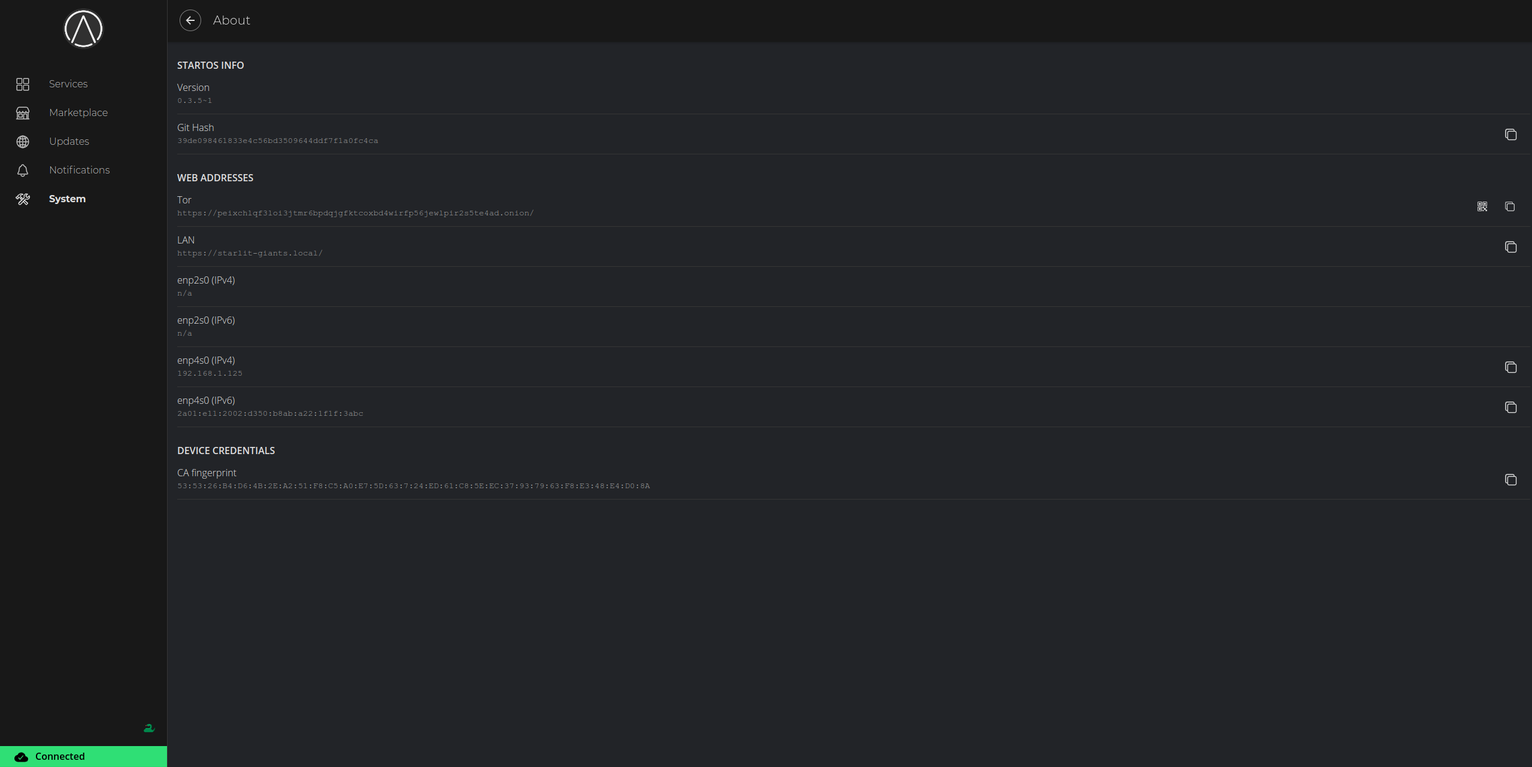
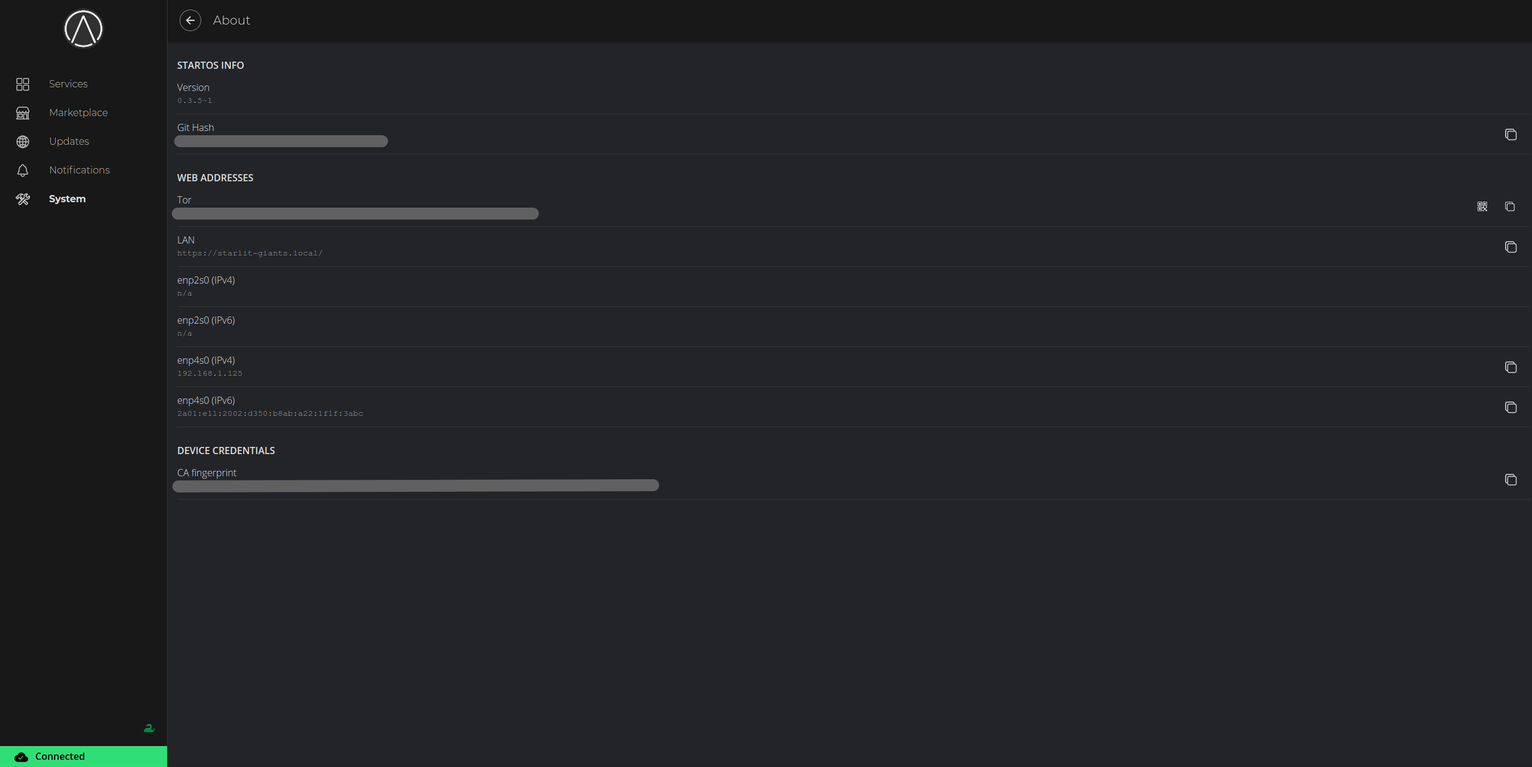
[update] privacy on images

Changed region(s): [[0.0926, 0.2496, 0.3705, 0.312], [0.0926, 0.624, 0.4322, 0.6552], [0.1235, 0.156, 0.247, 0.2184]]

diff --git a/public/1_conoscere/2_privacy_e_sicurezza/5_creare_il_proprio_nodo/index.html b/public/1_conoscere/2_privacy_e_sicurezza/5_creare_il_proprio_nodo/index.html
@@ -164,20 +164,20 @@ Perchè possedere un nodo privato Operare con Bitcoin tramite un nodo privato ti
 <h1 id="hardware-necessario">Hardware necessario</h1>
 <p>Acquistare un mini PC per creare il proprio nodo Bitcoin è una scelta vantaggiosa poichè sono compatti, silenziosi e richiedono poca energia, il che li rende ideali per un funzionamento continuo senza incidere troppo sui consumi elettrici.</p>
 <p>Sono qui proposte due soluzioni, che ho personalmente provato e che mi sento di consigliare:</p>
-<div class="tab-panel" data-tab-group="0b9d33902193c3ed617074cbd9b26641">
+<div class="tab-panel" data-tab-group="50bbae75beff8712fb2340cdd391b081">
   <div class="tab-nav">
     <div class="tab-nav-title">Mini PC:</div>
     <button
       data-tab-item="acemagic-s1-n95"
       class="tab-nav-button tab-panel-style cstyle initial active" tabindex="-1"
-      onclick="switchTab('0b9d33902193c3ed617074cbd9b26641','acemagic-s1-n95')"
+      onclick="switchTab('50bbae75beff8712fb2340cdd391b081','acemagic-s1-n95')"
     >
       <span class="tab-nav-text">Acemagic S1 N95</span>
     </button>
     <button
       data-tab-item="hp-elitedesk-800-g3"
       class="tab-nav-button tab-panel-style cstyle initial"
-      onclick="switchTab('0b9d33902193c3ed617074cbd9b26641','hp-elitedesk-800-g3')"
+      onclick="switchTab('50bbae75beff8712fb2340cdd391b081','hp-elitedesk-800-g3')"
     >
       <span class="tab-nav-text">HP EliteDesk 800 G3</span>
     </button>
@@ -189,8 +189,8 @@ Perchè possedere un nodo privato Operare con Bitcoin tramite un nodo privato ti
       <div class="tab-content-text">
 <h3 id="acemagic-s1-n95">Acemagic S1 N95</h3>
 <p>Facilmente reperibile su Amazon o sul <a href="https://acemagic.eu/products/s1-minipc" rel="external" target="_self">sito del produttore</a>. Si consiglia l&rsquo;acquisto separato di un SSD NVMe PCIe3.0 da almeno 2TB, che sarà poi da installare all&rsquo;interno del mini PC.</p>
-<p><a href="#R-image-1d2211774ddca72cdfbe19c2a5d412af" class="lightbox-link"><img alt="targets" class="border lazy lightbox noshadow figure-image" loading="lazy" src="/1_conoscere/2_privacy_e_sicurezza/5_creare_il_proprio_nodo/img/Acemagic_S1_N95_miniPC.png" style=" height: auto; width: auto;"></a>
-<a href="javascript:history.back();" class="lightbox-back" id="R-image-1d2211774ddca72cdfbe19c2a5d412af"><img alt="targets" class="border lazy lightbox noshadow lightbox-image" loading="lazy" src="/1_conoscere/2_privacy_e_sicurezza/5_creare_il_proprio_nodo/img/Acemagic_S1_N95_miniPC.png"></a></p>
+<p><a href="#R-image-83bddfbfc87b551fd4f66c55e26cf8c5" class="lightbox-link"><img alt="targets" class="border lazy lightbox noshadow figure-image" loading="lazy" src="/1_conoscere/2_privacy_e_sicurezza/5_creare_il_proprio_nodo/img/Acemagic_S1_N95_miniPC.png" style=" height: auto; width: auto;"></a>
+<a href="javascript:history.back();" class="lightbox-back" id="R-image-83bddfbfc87b551fd4f66c55e26cf8c5"><img alt="targets" class="border lazy lightbox noshadow lightbox-image" loading="lazy" src="/1_conoscere/2_privacy_e_sicurezza/5_creare_il_proprio_nodo/img/Acemagic_S1_N95_miniPC.png"></a></p>
 <table>
   <thead>
       <tr>
@@ -221,8 +221,8 @@ Perchè possedere un nodo privato Operare con Bitcoin tramite un nodo privato ti
       <div class="tab-content-text">
 <h3 id="hp-elitedesk-800-g3">HP EliteDesk 800 G3</h3>
 <p>Dispositivi ricondizionati sono facilmente reperibili online (Amazon ed Ebay). Si consiglia l&rsquo;acquisto separato di un SSD NVMe PCIe3.0 da almeno 2TB, che sarà poi da installare all&rsquo;interno del mini PC.</p>
-<p><a href="#R-image-031d5beacc06c8d3af6ca19fdff9ffdb" class="lightbox-link"><img alt="targets" class="border lazy lightbox noshadow figure-image" loading="lazy" src="/1_conoscere/2_privacy_e_sicurezza/5_creare_il_proprio_nodo/img/HP_EliteDesk_800_G4_35W_miniPC.png" style=" height: auto; width: auto;"></a>
-<a href="javascript:history.back();" class="lightbox-back" id="R-image-031d5beacc06c8d3af6ca19fdff9ffdb"><img alt="targets" class="border lazy lightbox noshadow lightbox-image" loading="lazy" src="/1_conoscere/2_privacy_e_sicurezza/5_creare_il_proprio_nodo/img/HP_EliteDesk_800_G4_35W_miniPC.png"></a></p>
+<p><a href="#R-image-545b0a2c9e63c1f66434fda389d18aa2" class="lightbox-link"><img alt="targets" class="border lazy lightbox noshadow figure-image" loading="lazy" src="/1_conoscere/2_privacy_e_sicurezza/5_creare_il_proprio_nodo/img/HP_EliteDesk_800_G4_35W_miniPC.png" style=" height: auto; width: auto;"></a>
+<a href="javascript:history.back();" class="lightbox-back" id="R-image-545b0a2c9e63c1f66434fda389d18aa2"><img alt="targets" class="border lazy lightbox noshadow lightbox-image" loading="lazy" src="/1_conoscere/2_privacy_e_sicurezza/5_creare_il_proprio_nodo/img/HP_EliteDesk_800_G4_35W_miniPC.png"></a></p>
 <table>
   <thead>
       <tr>
@@ -258,13 +258,13 @@ Perchè possedere un nodo privato Operare con Bitcoin tramite un nodo privato ti
 </li>
 <li>
 <p>Clicca sull&rsquo;ultima release, taggata come &ldquo;Latest&rdquo;</p>
-<p><a href="#R-image-21552d120401628f7080007931f84961" class="lightbox-link"><img alt="targets" class="border lazy lightbox noshadow figure-image" loading="lazy" src="/1_conoscere/2_privacy_e_sicurezza/5_creare_il_proprio_nodo/img/screen01.png" style=" height: auto; width: auto;"></a>
-<a href="javascript:history.back();" class="lightbox-back" id="R-image-21552d120401628f7080007931f84961"><img alt="targets" class="border lazy lightbox noshadow lightbox-image" loading="lazy" src="/1_conoscere/2_privacy_e_sicurezza/5_creare_il_proprio_nodo/img/screen01.png"></a></p>
+<p><a href="#R-image-cf6e314ad8caa1bad4fab26870795dac" class="lightbox-link"><img alt="targets" class="border lazy lightbox noshadow figure-image" loading="lazy" src="/1_conoscere/2_privacy_e_sicurezza/5_creare_il_proprio_nodo/img/screen01.png" style=" height: auto; width: auto;"></a>
+<a href="javascript:history.back();" class="lightbox-back" id="R-image-cf6e314ad8caa1bad4fab26870795dac"><img alt="targets" class="border lazy lightbox noshadow lightbox-image" loading="lazy" src="/1_conoscere/2_privacy_e_sicurezza/5_creare_il_proprio_nodo/img/screen01.png"></a></p>
 </li>
 <li>
 <p>Scorrere in fondo alla pagina e cliccare sul file che termina con &ldquo;x86_64.iso&rdquo;</p>
-<p><a href="#R-image-cee77774e58c99242d4f97b198c7e27f" class="lightbox-link"><img alt="targets" class="border lazy lightbox noshadow figure-image" loading="lazy" src="/1_conoscere/2_privacy_e_sicurezza/5_creare_il_proprio_nodo/img/screen02.png" style=" height: auto; width: auto;"></a>
-<a href="javascript:history.back();" class="lightbox-back" id="R-image-cee77774e58c99242d4f97b198c7e27f"><img alt="targets" class="border lazy lightbox noshadow lightbox-image" loading="lazy" src="/1_conoscere/2_privacy_e_sicurezza/5_creare_il_proprio_nodo/img/screen02.png"></a></p>
+<p><a href="#R-image-c128cf41144beabf83577daa9d956d62" class="lightbox-link"><img alt="targets" class="border lazy lightbox noshadow figure-image" loading="lazy" src="/1_conoscere/2_privacy_e_sicurezza/5_creare_il_proprio_nodo/img/screen02.png" style=" height: auto; width: auto;"></a>
+<a href="javascript:history.back();" class="lightbox-back" id="R-image-c128cf41144beabf83577daa9d956d62"><img alt="targets" class="border lazy lightbox noshadow lightbox-image" loading="lazy" src="/1_conoscere/2_privacy_e_sicurezza/5_creare_il_proprio_nodo/img/screen02.png"></a></p>
 </li>
 </ol>
 <h3 id="creare-una-iso-di-startos-per-il-boot">Creare una ISO di StartOS per il boot</h3>
@@ -280,8 +280,8 @@ Perchè possedere un nodo privato Operare con Bitcoin tramite un nodo privato ti
 </li>
 <li>
 <p>Avviare Balena Hetcher</p>
-<p><a href="#R-image-ab9588f3a8144e1d659a56c42fc0e86f" class="lightbox-link"><img alt="targets" class="border lazy lightbox noshadow figure-image" loading="lazy" src="/1_conoscere/2_privacy_e_sicurezza/5_creare_il_proprio_nodo/img/screen03.png" style=" height: auto; width: auto;"></a>
-<a href="javascript:history.back();" class="lightbox-back" id="R-image-ab9588f3a8144e1d659a56c42fc0e86f"><img alt="targets" class="border lazy lightbox noshadow lightbox-image" loading="lazy" src="/1_conoscere/2_privacy_e_sicurezza/5_creare_il_proprio_nodo/img/screen03.png"></a></p>
+<p><a href="#R-image-3f639a2730bb3c7a9557dbdb8584e0ad" class="lightbox-link"><img alt="targets" class="border lazy lightbox noshadow figure-image" loading="lazy" src="/1_conoscere/2_privacy_e_sicurezza/5_creare_il_proprio_nodo/img/screen03.png" style=" height: auto; width: auto;"></a>
+<a href="javascript:history.back();" class="lightbox-back" id="R-image-3f639a2730bb3c7a9557dbdb8584e0ad"><img alt="targets" class="border lazy lightbox noshadow lightbox-image" loading="lazy" src="/1_conoscere/2_privacy_e_sicurezza/5_creare_il_proprio_nodo/img/screen03.png"></a></p>
 </li>
 <li>
 <p>Cliccare su &ldquo;Flash from file&rdquo; e selezionare il file di StartOS (con estensione .iso) scaricato precedentemente</p>
@@ -300,8 +300,8 @@ Perchè possedere un nodo privato Operare con Bitcoin tramite un nodo privato ti
 </li>
 <li>
 <p>Accendere il Nodo e, mentre si avvia (fin dai primi istanti dopo averlo acceso) premere ripetutamente il tasto <!-- raw HTML omitted -->ESC<!-- raw HTML omitted --> (o il tasto <!-- raw HTML omitted -->F4<!-- raw HTML omitted -->, o <!-- raw HTML omitted -->F8<!-- raw HTML omitted -->, in funzione dell&rsquo;hardware utilizzato), fino a quando comparirà la schermata del BIOS</p>
-<p><a href="#R-image-e8c2228946b4b3e885a0bcf447b80bf3" class="lightbox-link"><img alt="targets" class="border lazy lightbox noshadow figure-image" loading="lazy" src="/1_conoscere/2_privacy_e_sicurezza/5_creare_il_proprio_nodo/img/screen04.png" style=" height: auto; width: auto;"></a>
-<a href="javascript:history.back();" class="lightbox-back" id="R-image-e8c2228946b4b3e885a0bcf447b80bf3"><img alt="targets" class="border lazy lightbox noshadow lightbox-image" loading="lazy" src="/1_conoscere/2_privacy_e_sicurezza/5_creare_il_proprio_nodo/img/screen04.png"></a></p>
+<p><a href="#R-image-416758fe5d3bc76ca3fc93cc25fc54ee" class="lightbox-link"><img alt="targets" class="border lazy lightbox noshadow figure-image" loading="lazy" src="/1_conoscere/2_privacy_e_sicurezza/5_creare_il_proprio_nodo/img/screen04.png" style=" height: auto; width: auto;"></a>
+<a href="javascript:history.back();" class="lightbox-back" id="R-image-416758fe5d3bc76ca3fc93cc25fc54ee"><img alt="targets" class="border lazy lightbox noshadow lightbox-image" loading="lazy" src="/1_conoscere/2_privacy_e_sicurezza/5_creare_il_proprio_nodo/img/screen04.png"></a></p>
 </li>
 <li>
 <p>Utilizzando i tasti freccia della tastiera, selezionare la scheda &ldquo;Boot&rdquo; e scorrere fino alla voce &ldquo;Boot Option #1&rdquo;, quindi premere <!-- raw HTML omitted -->INVIO<!-- raw HTML omitted --> e selezionare la chiavetta USB inserita</p>
@@ -311,44 +311,44 @@ Perchè possedere un nodo privato Operare con Bitcoin tramite un nodo privato ti
 </li>
 <li>
 <p>Attendere il riavvio e l&rsquo;inizializzazione dell&rsquo;installazione di StartOS, quindi selezionare l&rsquo;SSD su cui effettuare l&rsquo;installazione</p>
-<p><a href="#R-image-2c43af6e7523c2f4f2e50073b7ea3e60" class="lightbox-link"><img alt="targets" class="border lazy lightbox noshadow figure-image" loading="lazy" src="/1_conoscere/2_privacy_e_sicurezza/5_creare_il_proprio_nodo/img/screen05.png" style=" height: auto; width: auto;"></a>
-<a href="javascript:history.back();" class="lightbox-back" id="R-image-2c43af6e7523c2f4f2e50073b7ea3e60"><img alt="targets" class="border lazy lightbox noshadow lightbox-image" loading="lazy" src="/1_conoscere/2_privacy_e_sicurezza/5_creare_il_proprio_nodo/img/screen05.png"></a></p>
+<p><a href="#R-image-867c5efc84979a5267896e4e61f9f135" class="lightbox-link"><img alt="targets" class="border lazy lightbox noshadow figure-image" loading="lazy" src="/1_conoscere/2_privacy_e_sicurezza/5_creare_il_proprio_nodo/img/screen05.png" style=" height: auto; width: auto;"></a>
+<a href="javascript:history.back();" class="lightbox-back" id="R-image-867c5efc84979a5267896e4e61f9f135"><img alt="targets" class="border lazy lightbox noshadow lightbox-image" loading="lazy" src="/1_conoscere/2_privacy_e_sicurezza/5_creare_il_proprio_nodo/img/screen05.png"></a></p>
 </li>
 <li>
 <p>Cliccare su &ldquo;Install StartOS&rdquo; e confermare cliccando CONTINUE</p>
-<p><a href="#R-image-548333e4cac1ba21a95fa93ce7ddcd6a" class="lightbox-link"><img alt="targets" class="border lazy lightbox noshadow figure-image" loading="lazy" src="/1_conoscere/2_privacy_e_sicurezza/5_creare_il_proprio_nodo/img/screen06.png" style=" height: auto; width: auto;"></a>
-<a href="javascript:history.back();" class="lightbox-back" id="R-image-548333e4cac1ba21a95fa93ce7ddcd6a"><img alt="targets" class="border lazy lightbox noshadow lightbox-image" loading="lazy" src="/1_conoscere/2_privacy_e_sicurezza/5_creare_il_proprio_nodo/img/screen06.png"></a>
-<a href="#R-image-c7f55db38224b37ddcfdbc984f8ebdb0" class="lightbox-link"><img alt="targets" class="border lazy lightbox noshadow figure-image" loading="lazy" src="/1_conoscere/2_privacy_e_sicurezza/5_creare_il_proprio_nodo/img/screen07.png" style=" height: auto; width: auto;"></a>
-<a href="javascript:history.back();" class="lightbox-back" id="R-image-c7f55db38224b37ddcfdbc984f8ebdb0"><img alt="targets" class="border lazy lightbox noshadow lightbox-image" loading="lazy" src="/1_conoscere/2_privacy_e_sicurezza/5_creare_il_proprio_nodo/img/screen07.png"></a></p>
+<p><a href="#R-image-407826934879393ef81a9dfd24a39740" class="lightbox-link"><img alt="targets" class="border lazy lightbox noshadow figure-image" loading="lazy" src="/1_conoscere/2_privacy_e_sicurezza/5_creare_il_proprio_nodo/img/screen06.png" style=" height: auto; width: auto;"></a>
+<a href="javascript:history.back();" class="lightbox-back" id="R-image-407826934879393ef81a9dfd24a39740"><img alt="targets" class="border lazy lightbox noshadow lightbox-image" loading="lazy" src="/1_conoscere/2_privacy_e_sicurezza/5_creare_il_proprio_nodo/img/screen06.png"></a>
+<a href="#R-image-a792241d3627ed8e1a937c0e32850090" class="lightbox-link"><img alt="targets" class="border lazy lightbox noshadow figure-image" loading="lazy" src="/1_conoscere/2_privacy_e_sicurezza/5_creare_il_proprio_nodo/img/screen07.png" style=" height: auto; width: auto;"></a>
+<a href="javascript:history.back();" class="lightbox-back" id="R-image-a792241d3627ed8e1a937c0e32850090"><img alt="targets" class="border lazy lightbox noshadow lightbox-image" loading="lazy" src="/1_conoscere/2_privacy_e_sicurezza/5_creare_il_proprio_nodo/img/screen07.png"></a></p>
 </li>
 <li>
 <p>Attendere il completamento dell&rsquo;installazione, quindi rimuovere la chiavetta USB dal Nodo e cliccare su REBOOT</p>
-<p><a href="#R-image-6d3c45c4d66781f794d37b1b2bc617ba" class="lightbox-link"><img alt="targets" class="border lazy lightbox noshadow figure-image" loading="lazy" src="/1_conoscere/2_privacy_e_sicurezza/5_creare_il_proprio_nodo/img/screen08.png" style=" height: auto; width: auto;"></a>
-<a href="javascript:history.back();" class="lightbox-back" id="R-image-6d3c45c4d66781f794d37b1b2bc617ba"><img alt="targets" class="border lazy lightbox noshadow lightbox-image" loading="lazy" src="/1_conoscere/2_privacy_e_sicurezza/5_creare_il_proprio_nodo/img/screen08.png"></a></p>
+<p><a href="#R-image-1b66198152f179e44493a63dee346282" class="lightbox-link"><img alt="targets" class="border lazy lightbox noshadow figure-image" loading="lazy" src="/1_conoscere/2_privacy_e_sicurezza/5_creare_il_proprio_nodo/img/screen08.png" style=" height: auto; width: auto;"></a>
+<a href="javascript:history.back();" class="lightbox-back" id="R-image-1b66198152f179e44493a63dee346282"><img alt="targets" class="border lazy lightbox noshadow lightbox-image" loading="lazy" src="/1_conoscere/2_privacy_e_sicurezza/5_creare_il_proprio_nodo/img/screen08.png"></a></p>
 </li>
 <li>
 <p>Se tutto è andato a buon fine, comparirà questa schermata. Cliccare su &ldquo;Start Fresh&rdquo; e quindi selezionare l&rsquo;SSD</p>
-<p><a href="#R-image-a87dc9cf83fe4b0e8201551593fd4861" class="lightbox-link"><img alt="targets" class="border lazy lightbox noshadow figure-image" loading="lazy" src="/1_conoscere/2_privacy_e_sicurezza/5_creare_il_proprio_nodo/img/screen10.png" style=" height: auto; width: auto;"></a>
-<a href="javascript:history.back();" class="lightbox-back" id="R-image-a87dc9cf83fe4b0e8201551593fd4861"><img alt="targets" class="border lazy lightbox noshadow lightbox-image" loading="lazy" src="/1_conoscere/2_privacy_e_sicurezza/5_creare_il_proprio_nodo/img/screen10.png"></a>
-<a href="#R-image-e3aaa5a94d1f9d6012b953eef12695af" class="lightbox-link"><img alt="targets" class="border lazy lightbox noshadow figure-image" loading="lazy" src="/1_conoscere/2_privacy_e_sicurezza/5_creare_il_proprio_nodo/img/screen11.png" style=" height: auto; width: auto;"></a>
-<a href="javascript:history.back();" class="lightbox-back" id="R-image-e3aaa5a94d1f9d6012b953eef12695af"><img alt="targets" class="border lazy lightbox noshadow lightbox-image" loading="lazy" src="/1_conoscere/2_privacy_e_sicurezza/5_creare_il_proprio_nodo/img/screen11.png"></a></p>
+<p><a href="#R-image-02f55f258dd7a6491aa2f2999b863efa" class="lightbox-link"><img alt="targets" class="border lazy lightbox noshadow figure-image" loading="lazy" src="/1_conoscere/2_privacy_e_sicurezza/5_creare_il_proprio_nodo/img/screen10.png" style=" height: auto; width: auto;"></a>
+<a href="javascript:history.back();" class="lightbox-back" id="R-image-02f55f258dd7a6491aa2f2999b863efa"><img alt="targets" class="border lazy lightbox noshadow lightbox-image" loading="lazy" src="/1_conoscere/2_privacy_e_sicurezza/5_creare_il_proprio_nodo/img/screen10.png"></a>
+<a href="#R-image-7be733ac02715c42c5f31a7afcb7a3f4" class="lightbox-link"><img alt="targets" class="border lazy lightbox noshadow figure-image" loading="lazy" src="/1_conoscere/2_privacy_e_sicurezza/5_creare_il_proprio_nodo/img/screen11.png" style=" height: auto; width: auto;"></a>
+<a href="javascript:history.back();" class="lightbox-back" id="R-image-7be733ac02715c42c5f31a7afcb7a3f4"><img alt="targets" class="border lazy lightbox noshadow lightbox-image" loading="lazy" src="/1_conoscere/2_privacy_e_sicurezza/5_creare_il_proprio_nodo/img/screen11.png"></a></p>
 </li>
 <li>
 <p>Inserire una password, ri-scriverla per conferma e quindi cliccare su FINISH.</p>
-<p><a href="#R-image-74689a3f49ec983d454370d9a6bddd37" class="lightbox-link"><img alt="targets" class="border lazy lightbox noshadow figure-image" loading="lazy" src="/1_conoscere/2_privacy_e_sicurezza/5_creare_il_proprio_nodo/img/screen12.png" style=" height: auto; width: auto;"></a>
-<a href="javascript:history.back();" class="lightbox-back" id="R-image-74689a3f49ec983d454370d9a6bddd37"><img alt="targets" class="border lazy lightbox noshadow lightbox-image" loading="lazy" src="/1_conoscere/2_privacy_e_sicurezza/5_creare_il_proprio_nodo/img/screen12.png"></a></p>
+<p><a href="#R-image-73bfcf22aea5c91dd4f4644d93ed37b1" class="lightbox-link"><img alt="targets" class="border lazy lightbox noshadow figure-image" loading="lazy" src="/1_conoscere/2_privacy_e_sicurezza/5_creare_il_proprio_nodo/img/screen12.png" style=" height: auto; width: auto;"></a>
+<a href="javascript:history.back();" class="lightbox-back" id="R-image-73bfcf22aea5c91dd4f4644d93ed37b1"><img alt="targets" class="border lazy lightbox noshadow lightbox-image" loading="lazy" src="/1_conoscere/2_privacy_e_sicurezza/5_creare_il_proprio_nodo/img/screen12.png"></a></p>
 </li>
 <li>
 <p>Attendere l&rsquo;inizializzazione di StartOS</p>
-<p><a href="#R-image-f86091b7b3e26188f69ceeda98940a39" class="lightbox-link"><img alt="targets" class="border lazy lightbox noshadow figure-image" loading="lazy" src="/1_conoscere/2_privacy_e_sicurezza/5_creare_il_proprio_nodo/img/screen13.png" style=" height: auto; width: auto;"></a>
-<a href="javascript:history.back();" class="lightbox-back" id="R-image-f86091b7b3e26188f69ceeda98940a39"><img alt="targets" class="border lazy lightbox noshadow lightbox-image" loading="lazy" src="/1_conoscere/2_privacy_e_sicurezza/5_creare_il_proprio_nodo/img/screen13.png"></a></p>
+<p><a href="#R-image-7a1071d7c8be8c64b0a7c25e7fa4317a" class="lightbox-link"><img alt="targets" class="border lazy lightbox noshadow figure-image" loading="lazy" src="/1_conoscere/2_privacy_e_sicurezza/5_creare_il_proprio_nodo/img/screen13.png" style=" height: auto; width: auto;"></a>
+<a href="javascript:history.back();" class="lightbox-back" id="R-image-7a1071d7c8be8c64b0a7c25e7fa4317a"><img alt="targets" class="border lazy lightbox noshadow lightbox-image" loading="lazy" src="/1_conoscere/2_privacy_e_sicurezza/5_creare_il_proprio_nodo/img/screen13.png"></a></p>
 </li>
 <li>
 <p>Al termine dell&rsquo;inizializzazione, sarà possibile loggarsi per accedere al proprio nodo</p>
-<p><a href="#R-image-29112331b9bbd31556f2b99bf7d1f2cf" class="lightbox-link"><img alt="targets" class="border lazy lightbox noshadow figure-image" loading="lazy" src="/1_conoscere/2_privacy_e_sicurezza/5_creare_il_proprio_nodo/img/screen14.png" style=" height: auto; width: auto;"></a>
-<a href="javascript:history.back();" class="lightbox-back" id="R-image-29112331b9bbd31556f2b99bf7d1f2cf"><img alt="targets" class="border lazy lightbox noshadow lightbox-image" loading="lazy" src="/1_conoscere/2_privacy_e_sicurezza/5_creare_il_proprio_nodo/img/screen14.png"></a>
-<a href="#R-image-bbd35b730cb6748d846aa76049dbdb8d" class="lightbox-link"><img alt="targets" class="border lazy lightbox noshadow figure-image" loading="lazy" src="/1_conoscere/2_privacy_e_sicurezza/5_creare_il_proprio_nodo/img/screen15.png" style=" height: auto; width: auto;"></a>
-<a href="javascript:history.back();" class="lightbox-back" id="R-image-bbd35b730cb6748d846aa76049dbdb8d"><img alt="targets" class="border lazy lightbox noshadow lightbox-image" loading="lazy" src="/1_conoscere/2_privacy_e_sicurezza/5_creare_il_proprio_nodo/img/screen15.png"></a></p>
+<p><a href="#R-image-585940a0fd7c1851de4987a17776daed" class="lightbox-link"><img alt="targets" class="border lazy lightbox noshadow figure-image" loading="lazy" src="/1_conoscere/2_privacy_e_sicurezza/5_creare_il_proprio_nodo/img/screen14.png" style=" height: auto; width: auto;"></a>
+<a href="javascript:history.back();" class="lightbox-back" id="R-image-585940a0fd7c1851de4987a17776daed"><img alt="targets" class="border lazy lightbox noshadow lightbox-image" loading="lazy" src="/1_conoscere/2_privacy_e_sicurezza/5_creare_il_proprio_nodo/img/screen14.png"></a>
+<a href="#R-image-1542a61a384f6dbb491669f76261e669" class="lightbox-link"><img alt="targets" class="border lazy lightbox noshadow figure-image" loading="lazy" src="/1_conoscere/2_privacy_e_sicurezza/5_creare_il_proprio_nodo/img/screen15.png" style=" height: auto; width: auto;"></a>
+<a href="javascript:history.back();" class="lightbox-back" id="R-image-1542a61a384f6dbb491669f76261e669"><img alt="targets" class="border lazy lightbox noshadow lightbox-image" loading="lazy" src="/1_conoscere/2_privacy_e_sicurezza/5_creare_il_proprio_nodo/img/screen15.png"></a></p>
 </li>
 </ol>
 <hr>
@@ -358,13 +358,13 @@ Perchè possedere un nodo privato Operare con Bitcoin tramite un nodo privato ti
 <ol start="22">
 <li>Dal menù di sinistra, cliccare su &ldquo;System&rdquo;</li>
 </ol>
-<p><a href="#R-image-4e338d506a1d5102457899b90c513c1c" class="lightbox-link"><img alt="targets" class="border lazy lightbox noshadow figure-image" loading="lazy" src="/1_conoscere/2_privacy_e_sicurezza/5_creare_il_proprio_nodo/img/system_about.png" style=" height: auto; width: auto;"></a>
-<a href="javascript:history.back();" class="lightbox-back" id="R-image-4e338d506a1d5102457899b90c513c1c"><img alt="targets" class="border lazy lightbox noshadow lightbox-image" loading="lazy" src="/1_conoscere/2_privacy_e_sicurezza/5_creare_il_proprio_nodo/img/system_about.png"></a></p>
+<p><a href="#R-image-8159646c630f3d1899c1e3d47123981d" class="lightbox-link"><img alt="targets" class="border lazy lightbox noshadow figure-image" loading="lazy" src="/1_conoscere/2_privacy_e_sicurezza/5_creare_il_proprio_nodo/img/system_about.png" style=" height: auto; width: auto;"></a>
+<a href="javascript:history.back();" class="lightbox-back" id="R-image-8159646c630f3d1899c1e3d47123981d"><img alt="targets" class="border lazy lightbox noshadow lightbox-image" loading="lazy" src="/1_conoscere/2_privacy_e_sicurezza/5_creare_il_proprio_nodo/img/system_about.png"></a></p>
 <ol start="23">
 <li>Poi cliccare su &ldquo;About&rdquo;</li>
 </ol>
-<p><a href="#R-image-29800578949760f99718ef53913202d3" class="lightbox-link"><img alt="targets" class="border lazy lightbox noshadow figure-image" loading="lazy" src="/1_conoscere/2_privacy_e_sicurezza/5_creare_il_proprio_nodo/img/system_about_ipv4.png" style=" height: auto; width: auto;"></a>
-<a href="javascript:history.back();" class="lightbox-back" id="R-image-29800578949760f99718ef53913202d3"><img alt="targets" class="border lazy lightbox noshadow lightbox-image" loading="lazy" src="/1_conoscere/2_privacy_e_sicurezza/5_creare_il_proprio_nodo/img/system_about_ipv4.png"></a></p>
+<p><a href="#R-image-82adb08611c32e79aca4e56d5557f8d0" class="lightbox-link"><img alt="targets" class="border lazy lightbox noshadow figure-image" loading="lazy" src="/1_conoscere/2_privacy_e_sicurezza/5_creare_il_proprio_nodo/img/system_about_ipv4.png" style=" height: auto; width: auto;"></a>
+<a href="javascript:history.back();" class="lightbox-back" id="R-image-82adb08611c32e79aca4e56d5557f8d0"><img alt="targets" class="border lazy lightbox noshadow lightbox-image" loading="lazy" src="/1_conoscere/2_privacy_e_sicurezza/5_creare_il_proprio_nodo/img/system_about_ipv4.png"></a></p>
 <ol start="24">
 <li>Copiare l&rsquo;indirizzo IP che si trova alla voce &ldquo;enp4s0 (IPv4)&rdquo; ed inserirlo come URL nel brower di un qualunque PC collegato alla stessa rete del nodo.</li>
 </ol>
@@ -373,8 +373,8 @@ Perchè possedere un nodo privato Operare con Bitcoin tramite un nodo privato ti
 <ol start="25">
 <li>
 <p>Dal menù di sinistra, cliccare su &ldquo;System&rdquo;</p>
-<p><a href="#R-image-5a23dffce43937749488f42bdc6048e9" class="lightbox-link"><img alt="targets" class="border lazy lightbox noshadow figure-image" loading="lazy" src="/1_conoscere/2_privacy_e_sicurezza/5_creare_il_proprio_nodo/img/system_about.png" style=" height: auto; width: auto;"></a>
-<a href="javascript:history.back();" class="lightbox-back" id="R-image-5a23dffce43937749488f42bdc6048e9"><img alt="targets" class="border lazy lightbox noshadow lightbox-image" loading="lazy" src="/1_conoscere/2_privacy_e_sicurezza/5_creare_il_proprio_nodo/img/system_about.png"></a></p>
+<p><a href="#R-image-f742b5466e600da5ae046c1282a940ea" class="lightbox-link"><img alt="targets" class="border lazy lightbox noshadow figure-image" loading="lazy" src="/1_conoscere/2_privacy_e_sicurezza/5_creare_il_proprio_nodo/img/system_about.png" style=" height: auto; width: auto;"></a>
+<a href="javascript:history.back();" class="lightbox-back" id="R-image-f742b5466e600da5ae046c1282a940ea"><img alt="targets" class="border lazy lightbox noshadow lightbox-image" loading="lazy" src="/1_conoscere/2_privacy_e_sicurezza/5_creare_il_proprio_nodo/img/system_about.png"></a></p>
 </li>
 <li>
 <p>Poi cliccare su &ldquo;Root CA&rdquo; e quindi su &ldquo;Download Root CA&rdquo;</p>
